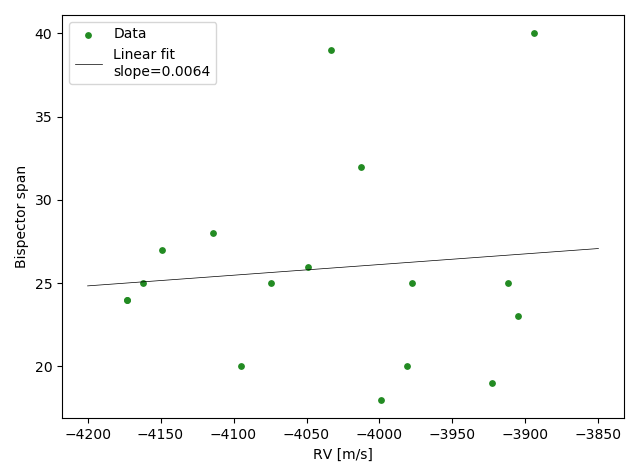
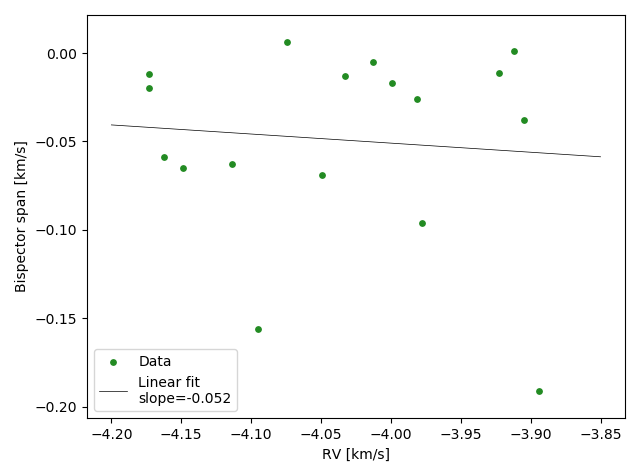
correct bisector

diff --git a/RV_analysis/planet1/bisector.py b/RV_analysis/planet1/bisector.py
@@ -7,8 +7,8 @@ import matplotlib.pyplot as plt
 plt.rcParams.update({'font.size': 10})
 
 def data_set(): 
-    fname="WASP44_RV_PyORBIT.dat"
-    RV, bisector=np.genfromtxt(fname,dtype=float, comments="#", usecols=(1,2),unpack=True)
+    fname="andersonRV.dat"
+    RV, bisector=np.genfromtxt(fname,dtype=float, comments="#", usecols=(1,3),unpack=True)
     return RV, bisector
 
 
@@ -50,18 +50,19 @@ def least_square(x,y,k,m):
 
 m=1 #order of polynomial
 x,y=data_set()
+print(x,y)
 
 k=poly_fit(x,y,m)
 ynew1,res1=least_square(x,y,k,m)
+slope = "{:.3f}".format(round(k[1], 3))
 
-
-xvec=np.linspace(-4200,-3850,int(1e3))
+xvec=np.linspace(-4.200,-3.850,int(1e3))
 yvec=np.polyval([k[1],k[0]],xvec)
 a=plt.scatter(x,y,color="forestgreen",s=15)
 b,=plt.plot(xvec,yvec,linestyle="-",color="black",linewidth="0.5")
-plt.xlabel("RV [m/s]")
-plt.ylabel("Bispector span")
-plt.legend([a,b],["Data","Linear fit"+"\n"+"slope=0.0064"])
+plt.xlabel("RV [km/s]")
+plt.ylabel("Bispector span [km/s]")
+plt.legend([a,b],["Data","Linear fit"+"\n"+"slope="+str(slope)])
 print(k[0],k[1])
 
 plt.tight_layout()
